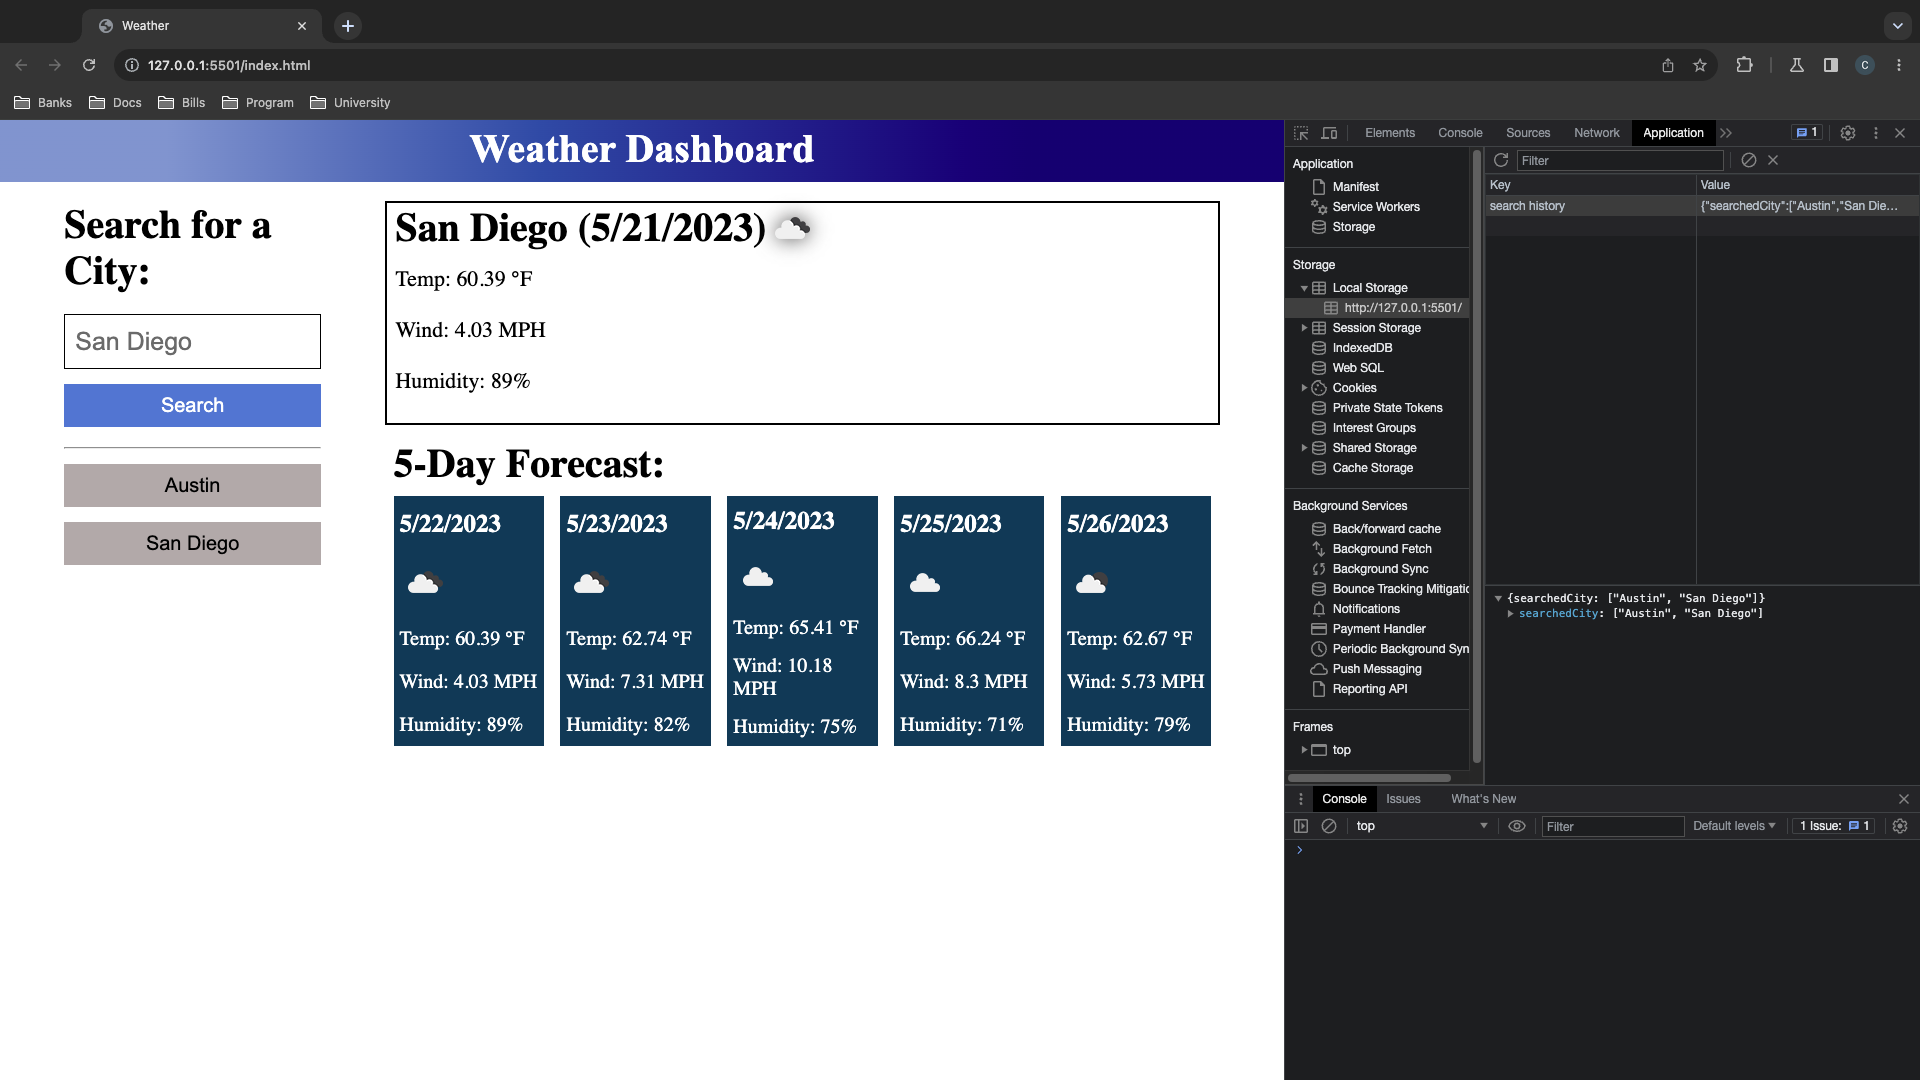
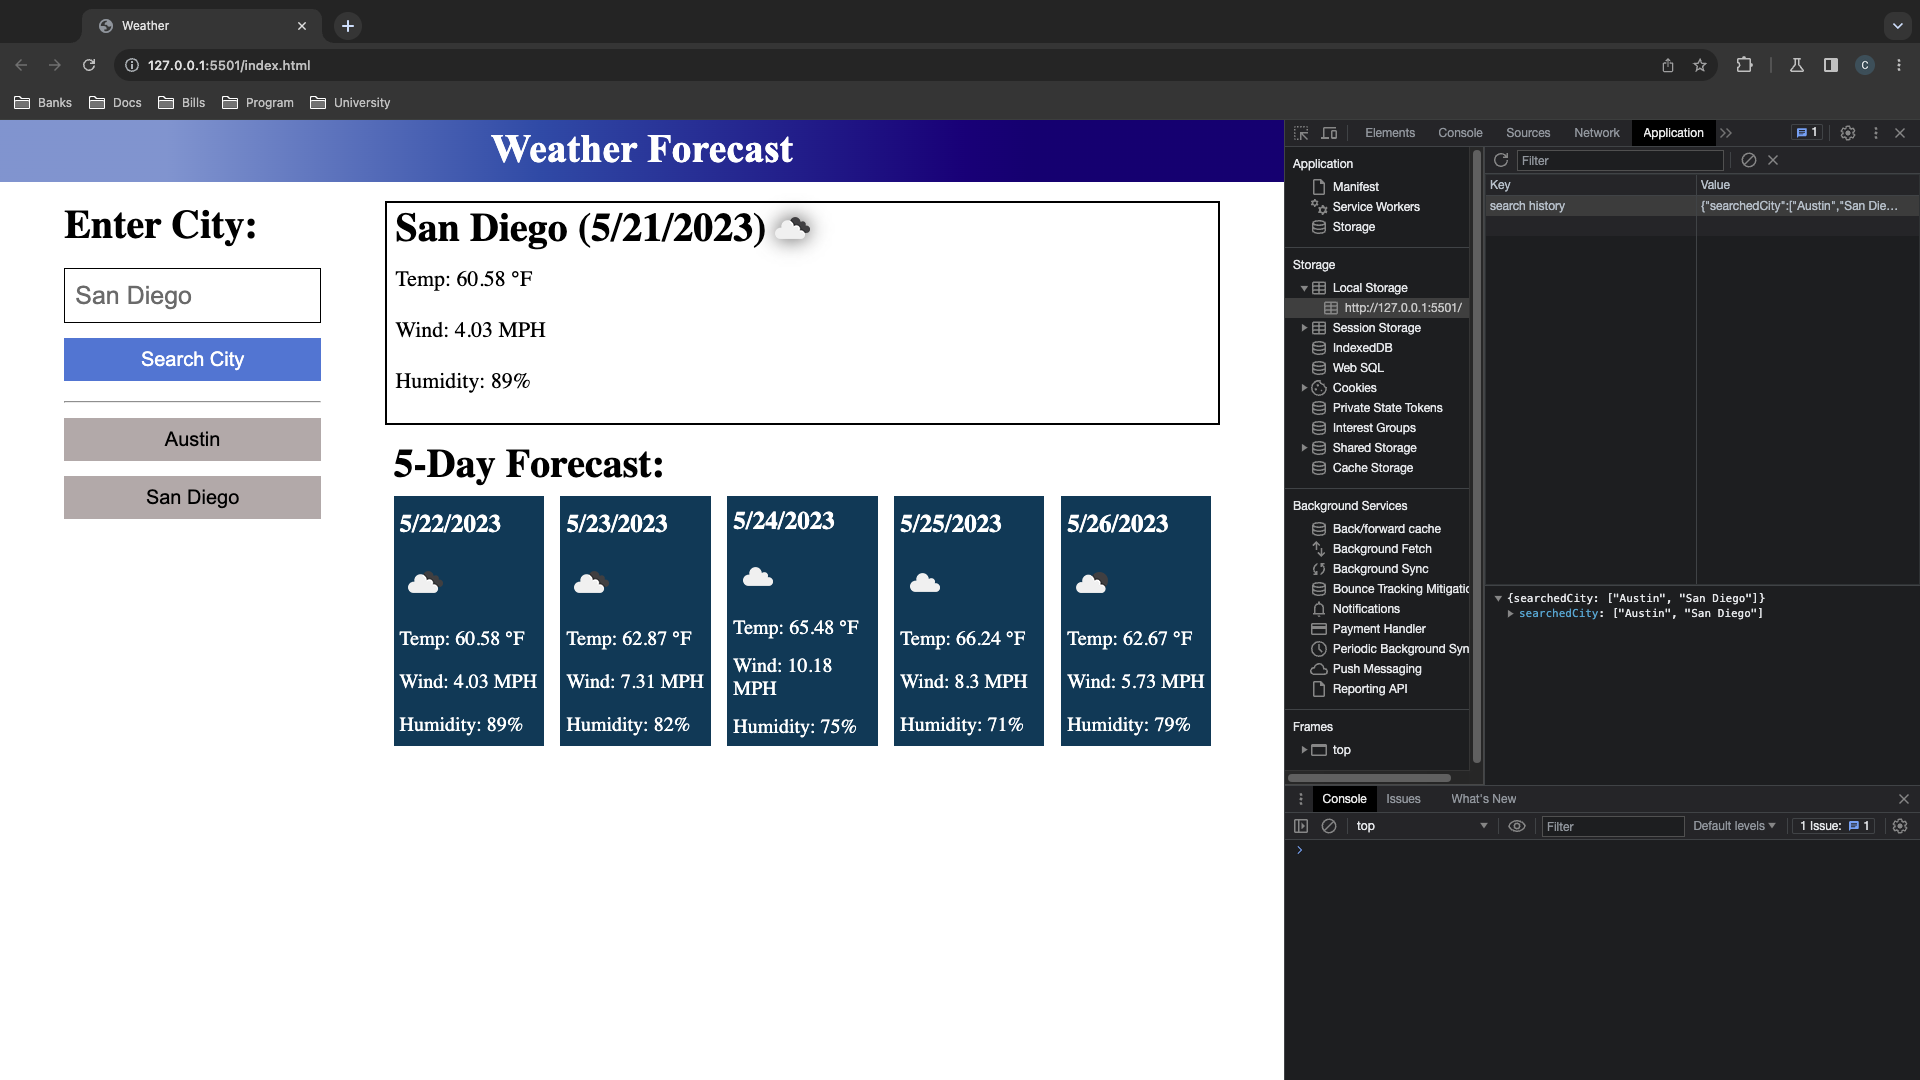
udated screenshots

Changed region(s): [[0.0312, 0.1833, 0.1875, 0.55], [0.25, 0.1222, 0.4375, 0.1528]]

diff --git a/index.html b/index.html
@@ -8,15 +8,15 @@
     <title>Weather</title>
   </head>
   <body>
-    <header class="heading">Weather Dashboard</header>
+    <header class="heading">Weather Forecast</header>
     <main id="container" class="container">
         <div class="row">
             <div class="col1">
                 <div id="search-area">
-                    <h1 class="h1">Search for a City:</h1>
+                    <h1 class="h1">Enter City:</h1>
                     <form id="city-search">
                         <input name="city" type="text" placeholder="San Diego" id="city" autofocus="true" class="city-input" />
-                    <button type="submit" id="search-btn" class="btn">Search</button>
+                    <button type="submit" id="search-btn" class="btn">Search City</button>
                     </form>
                     <hr>
                 </hr>

diff --git a/README.md b/README.md
@@ -28,6 +28,7 @@ Website Link: https://c0nstantin1990.github.io/Weather-Dashboard/
 
 ## Credits
 
+Used stack overflow for capitalized letters
 Used documintation from 5 day/ 3 hour forecast & Geocoder API.
 Used examples from UNCC textbook & mini project to creare functions.
 Used google to look up solutions to build weather app.
